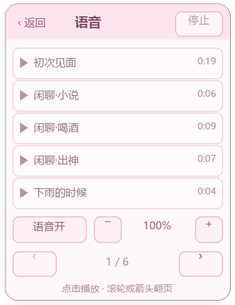
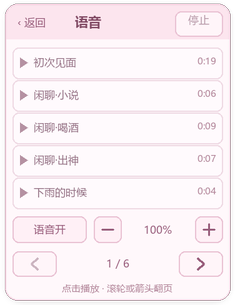
fix: delay drinking voice and center voice controls

diff --git a/voices.py b/voices.py
@@ -156,6 +156,32 @@ class VoicePicker(PinkMenu):
             draw.text((round(x*factor),round(y*factor)),label,
                       font=font(round(size*factor),bold),fill=fill,anchor=anchor)
 
+        def centered_text(rect, label, size=8.5):
+            face = font(round(size*factor))
+            left,top,right,bottom = draw.textbbox((0,0),label,font=face)
+            x = ((rect[0]+rect[2])*factor-left-right)/2
+            y = ((rect[1]+rect[3])*factor-top-bottom)/2
+            draw.text((round(x),round(y)),label,font=face,fill='#985d7b')
+
+        def symbol(rect, kind, enabled=True):
+            x, y = (rect[0]+rect[2])/2,(rect[1]+rect[3])/2
+            color = '#985d7b' if enabled else '#cbb4c0'
+            stroke = max(1,round(1.6*factor))
+            if kind in ('plus','minus'):
+                lines = [[(x-4.5,y),(x+4.5,y)]]
+                if kind == 'plus':
+                    lines.append([(x,y-4.5),(x,y+4.5)])
+            else:
+                direction = -1 if kind == 'left' else 1
+                lines = [[(x-direction*2.5,y-4.5),(x+direction*2.5,y),
+                          (x-direction*2.5,y+4.5)]]
+            for points in lines:
+                pixels = [box(point) for point in points]
+                draw.line(pixels,fill=color,width=stroke,joint='curve')
+                for px,py in (pixels[0],pixels[-1]):
+                    radius = (stroke-1)/2
+                    draw.ellipse((px-radius,py-radius,px+radius,py+radius),fill=color)
+
         shadow = Image.new('RGBA', canvas.size)
         ImageDraw.Draw(shadow).rounded_rectangle(box((6,6,182,240)),radius=11*factor,fill=(106,52,76,35))
         canvas.alpha_composite(shadow.filter(ImageFilter.GaussianBlur(3*factor)))
@@ -191,17 +217,19 @@ class VoicePicker(PinkMenu):
             text(173,top+8,f'{seconds//60}:{seconds%60:02}',7.5,'#b18498',anchor='rt')
         if not records:
             text(94,106,'还没有可用语音',10,'#ae8396',anchor='mt')
-        for command,rect,label in ((65,(10,173,69,194),'语音关' if state['muted'] else '语音开'),
-                                   (66,(75,173,97,194),'−'),(67,(156,173,178,194),'+')):
+        for command,rect in ((65,(10,173,69,194)),(66,(75,173,97,194)),(67,(156,173,178,194))):
             rounded(rect,5,'#f3cfdf' if hover == command else '#fff0f6','#eac3d4')
-            text((rect[0]+rect[2])/2,177,label,8.5,anchor='mt')
-        text(126,177,f"{state['volume']}%",8.5,anchor='mt')
-        for command, rect, label, enabled in (
-                (63,(10,201,45,221),'‹',state['page'] > 0),
-                (64,(143,201,178,221),'›',state['page']+1 < self.pages)):
+            if command == 65:
+                centered_text(rect,'语音关' if state['muted'] else '语音开')
+            else:
+                symbol(rect,'minus' if command == 66 else 'plus')
+        centered_text((98,173,155,194),f"{state['volume']}%")
+        for command, rect, kind, enabled in (
+                (63,(10,201,45,221),'left',state['page'] > 0),
+                (64,(143,201,178,221),'right',state['page']+1 < self.pages)):
             rounded(rect,5,'#f3cfdf' if hover == command and enabled else '#fff5f9','#eac3d4')
-            text((rect[0]+rect[2])/2,203,label,11,'#985d7b' if enabled else '#cbb4c0',anchor='mt')
-        text(94,206,f"{state['page']+1} / {self.pages}",8.5,'#b18498',anchor='mt')
+            symbol(rect,kind,enabled)
+        centered_text((50,201,138,221),f"{state['page']+1} / {self.pages}")
         footer = ('语音已关闭' if state['muted'] else '音量为零' if not state['volume'] else
                   '播放失败，请重新点选' if state['error'] else '点击播放 · 滚轮或箭头翻页')
         text(94,227,footer,7.5,'#b18498',anchor='mt')

diff --git a/work/test_voice_actions.py b/work/test_voice_actions.py
@@ -16,16 +16,20 @@ class VoiceActionTests(unittest.TestCase):
 
     def advance(self, seconds, **options):
         self.clock.advance(seconds)
-        return self.actions.advance(seconds,self.clock.current,self.clock.cycle,**options)
+        return self.actions.advance(seconds,self.clock.current,self.clock.cycle,
+                                    position=self.clock.position,**options)
 
     def test_drinking_waits_for_actual_entry_and_repeats_only_at_cycle_start(self):
         self.assertIsNone(self.advance(.5))
         self.clock.request('drinking')
         self.assertIsNone(self.advance(1.5))
-        self.assertEqual(self.advance(.5),'闲聊·喝酒')
+        self.assertIsNone(self.advance(.5))
+        self.assertIsNone(self.advance(.499))
+        self.assertEqual(self.advance(.001),'闲聊·喝酒')
         self.clock.request('drinking')
         self.assertIsNone(self.advance(15))
-        self.assertEqual(self.advance(1),'闲聊·喝酒')
+        self.assertIsNone(self.advance(.5))
+        self.assertEqual(self.advance(.5),'闲聊·喝酒')
         self.clock.request('reading')
         self.assertIsNone(self.advance(16))
 
@@ -33,7 +37,27 @@ class VoiceActionTests(unittest.TestCase):
         self.clock.request('drinking')
         self.assertIsNone(self.advance(2.5,busy=True))
         self.assertIsNone(self.advance(1,busy=False))
-        self.assertEqual(self.advance(15),'闲聊·喝酒')
+        self.assertIsNone(self.advance(15))
+        self.assertEqual(self.advance(.5),'闲聊·喝酒')
+
+    def test_delay_uses_media_phase_when_a_frame_crosses_the_entry_boundary(self):
+        self.clock.request('drinking')
+        self.assertIsNone(self.advance(2.8))
+        self.assertIsNone(self.advance(.199))
+        self.assertEqual(self.advance(.001),'闲聊·喝酒')
+
+    def test_pausing_keeps_delay_and_stop_or_manual_playback_cancels_pending_line(self):
+        self.clock.request('drinking')
+        self.assertIsNone(self.advance(2.75))
+        self.assertIsNone(self.actions.advance(10,'drinking',self.clock.cycle,
+                                               position=self.clock.position,paused=True))
+        self.assertEqual(self.advance(.25),'闲聊·喝酒')
+        self.assertIsNone(self.advance(15.5))
+        self.actions.defer(cancel_drinking=True)
+        self.assertIsNone(self.advance(.5))
+        self.assertIsNone(self.advance(15.5))
+        self.assertIsNone(self.advance(.25,busy=True))
+        self.assertIsNone(self.advance(.25,busy=False))
 
     def test_standing_idle_delays_and_avoids_consecutive_duplicates(self):
         lines, since = [],0
@@ -68,7 +92,8 @@ class VoiceActionTests(unittest.TestCase):
         self.clock.request('drinking')
         self.assertIsNone(self.advance(2.5,enabled=False))
         self.assertIsNone(self.advance(1))
-        self.assertEqual(self.advance(15),'闲聊·喝酒')
+        self.assertIsNone(self.advance(15))
+        self.assertEqual(self.advance(.5),'闲聊·喝酒')
 
     def test_sleep_does_not_cause_idle_catchup_burst(self):
         self.advance(.1)

diff --git a/voice_actions.py b/voice_actions.py
@@ -5,6 +5,7 @@ import random
 class VoiceActions:
     IDLE_TITLES = ('闲聊·小说','闲聊·出神')
     DRINK_TITLE = '闲聊·喝酒'
+    DRINK_DELAY = .5
 
     def __init__(self, rng=None):
         self.rng = rng or random.Random()
@@ -12,25 +13,38 @@ class VoiceActions:
         self.cycle = None
         self.remaining = self.delay()
         self.last_idle = None
+        self.drink_pending = False
 
     def delay(self):
         return self.rng.uniform(45,90)
 
-    def defer(self):
+    def defer(self, *, cancel_drinking=False):
         self.remaining = self.delay()
+        if cancel_drinking:
+            self.drink_pending = False
 
-    def advance(self, seconds, pose, cycle, *, enabled=True, busy=False, paused=False):
+    def advance(self, seconds, pose, cycle, *, position, enabled=True, busy=False, paused=False):
         changed = pose != self.pose
         new_cycle = cycle != self.cycle
         self.pose, self.cycle = pose,cycle
+        if changed or new_cycle:
+            self.drink_pending = False
         if changed:
             self.defer()
-        if not enabled or paused:
+        if not enabled or busy:
+            self.drink_pending = False
             return None
-        if pose == 'drinking' and new_cycle:
-            # Skip a busy cycle instead of playing its line late or interrupting a click.
-            return None if busy else self.DRINK_TITLE
-        if pose != 'standing' or busy:
+        if paused:
+            return None
+        if pose == 'drinking':
+            if new_cycle:
+                self.drink_pending = True
+            # Use media position so pausing does not consume the half-second delay.
+            if self.drink_pending and position+1e-9 >= self.DRINK_DELAY:
+                self.drink_pending = False
+                return self.DRINK_TITLE
+            return None
+        if pose != 'standing':
             return None
         self.remaining -= min(max(0,seconds),1.0)
         if self.remaining > 0:

diff --git a/desktop_pet.py b/desktop_pet.py
@@ -349,6 +349,7 @@ class DesktopPet:
         else:
             busy = busy or isinstance(self.popup,VoicePicker)
         title = self.voice_actions.advance(seconds,self.current,self.clock.cycle,
+                                           position=self.clock.position,
                                            enabled=not player.muted and player.volume > 0,
                                            busy=busy,paused=self.paused)
         if title:
@@ -361,7 +362,7 @@ class DesktopPet:
             if self.voice_player.play(self.voices.get(identifier)):
                 self.voice_manual = not automatic
                 if not automatic:
-                    self.voice_actions.defer()
+                    self.voice_actions.defer(cancel_drinking=True)
             return True
         except (FileNotFoundError,StopIteration):
             if not automatic:
@@ -372,11 +373,11 @@ class DesktopPet:
 
     def stop_voice(self):
         self.voice_player.stop()
-        self.voice_actions.defer()
+        self.voice_actions.defer(cancel_drinking=True)
 
     def configure_voice(self,*,volume=None,muted=None):
         self.voice_player.configure(volume=volume,muted=muted)
-        self.voice_actions.defer()
+        self.voice_actions.defer(cancel_drinking=self.voice_player.muted or self.voice_player.volume == 0)
         self.save_settings()
 
     def save_settings(self):

diff --git a/work/test_voices.py b/work/test_voices.py
@@ -225,7 +225,14 @@ try:
     # Exercise the application wiring without a real speaker or changing its QA clock.
     pet.current = 'drinking'
     pet.clock.cycle += 1
+    pet.clock.position = 0
     pet.update_automatic_voice(.02)
+    assert pet.voice_player.current_id is None
+    pet.clock.position = .499
+    pet.update_automatic_voice(.499)
+    assert pet.voice_player.current_id is None
+    pet.clock.position = .5
+    pet.update_automatic_voice(.001)
     settle(pet.voice_player)
     assert pet.voice_player.current_id == 3
     pet.stop_voice()
@@ -286,6 +293,7 @@ try:
               'page_mouse_keyboard_wheel':True,'same_row_expression_voice_buttons':True,
               'private_handle_live_volume_and_buffer_release':True,'mute_zero_volume_and_bounds':True,
               'native_mute_volume_controls':True,'automatic_action_wiring_and_manual_priority':True,
+              'drinking_voice_waits_half_second_of_animation':True,
               'voice_settings_saved_and_other_preferences_preserved':True,
               'gdi_handles_before':before,'gdi_handles_after':after}
     (ROOT/'work'/'voice-validation.json').write_text(json.dumps(report,indent=2)+'\n')

diff --git a/README.md b/README.md
@@ -10,7 +10,7 @@
 - 右键菜单采用迷你浅粉色卡片，主菜单及表情面板约为上一版一半的宽高。弹窗放在人物旁边，右侧放不下时切到左侧；切换动作时重新避开人物，窄屏时自动适配可用空间。打开时动画继续播放，方向键或 Tab 选择、Enter 执行、Esc 收起，点击菜单外也会收起。
 - 右键 → **表情**：九宫格展示慌张、睡了、怀疑、不想面对、刚醒、脸红、有点烦、来了和眨眼。点击后显示在桌宠右上角，5 秒后自动消失；再次选择任意表情会重新计时。暂停动画时也会正常到时消失。
 - “表情”和“语音”并排显示。点击“语音”打开迷你分页列表，点击名称播放；上一页/下一页、左右方向键或滚轮翻页，点击“停止”结束播放。选择另一条会替换当前语音，关闭菜单后语音继续播放。
-- 喝饮料动作每轮实际开始时播放“闲聊·喝酒”，等待切换时不会提前播放。站立待机每隔 45～90 秒随机播放“闲聊·小说”或“闲聊·出神”，避免连续重复；暂停或手动点播时暂不触发闲聊，自动语音不会打断手动点播。
+- 喝饮料动作每轮实际开始后延迟 0.5 秒播放“闲聊·喝酒”，等待切换时不会提前播放，暂停时延迟也随动画暂停。站立待机每隔 45～90 秒随机播放“闲聊·小说”或“闲聊·出神”，避免连续重复；暂停或手动点播时暂不触发闲聊，自动语音不会打断手动点播。
 - 语音面板底部可切换“语音开 / 语音关”，并用 − / + 每次调整 10% 音量。关闭语音或调至 0% 会立即停止播放，手动与自动语音均静音；重新打开后等待下次触发。音量只影响桌宠，调节当前语音即时生效，偏好会保存到本机设置。
 - 语音按当前保留的文件生成。删除原始语音后，再次打开列表即可隐藏；运行 `python work/prepare_voices.py` 可同步 CSV、校验清单和播放缓存。下载素材与生成的语音缓存全部由 Git 忽略。
 - 表情会随桌宠拖动、缩放和切换动作调整位置；透明贴图不拦截鼠标，靠近屏幕边缘时保持在可见范围内。在表情面板点击“清除”即可收起。

diff --git a/docs/RELEASE_NOTES.md b/docs/RELEASE_NOTES.md
@@ -7,8 +7,9 @@
 - 右键选择“表情”展示九宫格；内置 9 款透明表情，点击后显示在桌宠右上角，5 秒后自动消失，再次选择重新计时。表情随拖动、缩放和动作调整位置，也可在面板手动清除。
 - 表情不拦截鼠标，缩略图按需在后台解码，缓存数量受限。
 - 主菜单的“表情”和“语音”并排显示，去掉表情数量；语音列表仅包含保留的条目，支持点选播放、停止、分页和滚轮翻页，同一时间播放一条。
-- 喝饮料每轮开始时配对播放“闲聊·喝酒”；站立时隔 45～90 秒随机播放“闲聊·小说”或“闲聊·出神”，不打断手动点播。
+- 喝饮料每轮开始后延迟 0.5 秒配对播放“闲聊·喝酒”；站立时隔 45～90 秒随机播放“闲聊·小说”或“闲聊·出神”，不打断手动点播。
 - 语音面板增加开关与每次 10% 的音量加减，保持弹窗原尺寸。支持即时静音、当前语音音量调整和本地保存；只调节桌宠自身音量。
+- 音量加减号和翻页箭头放大并居中，采用清晰的圆润线条。
 - 改为按需读取和有限帧缓存，默认尺寸本机回归工作集峰值约 45 MiB，大号约 72 MiB。
 
 下载说明：
